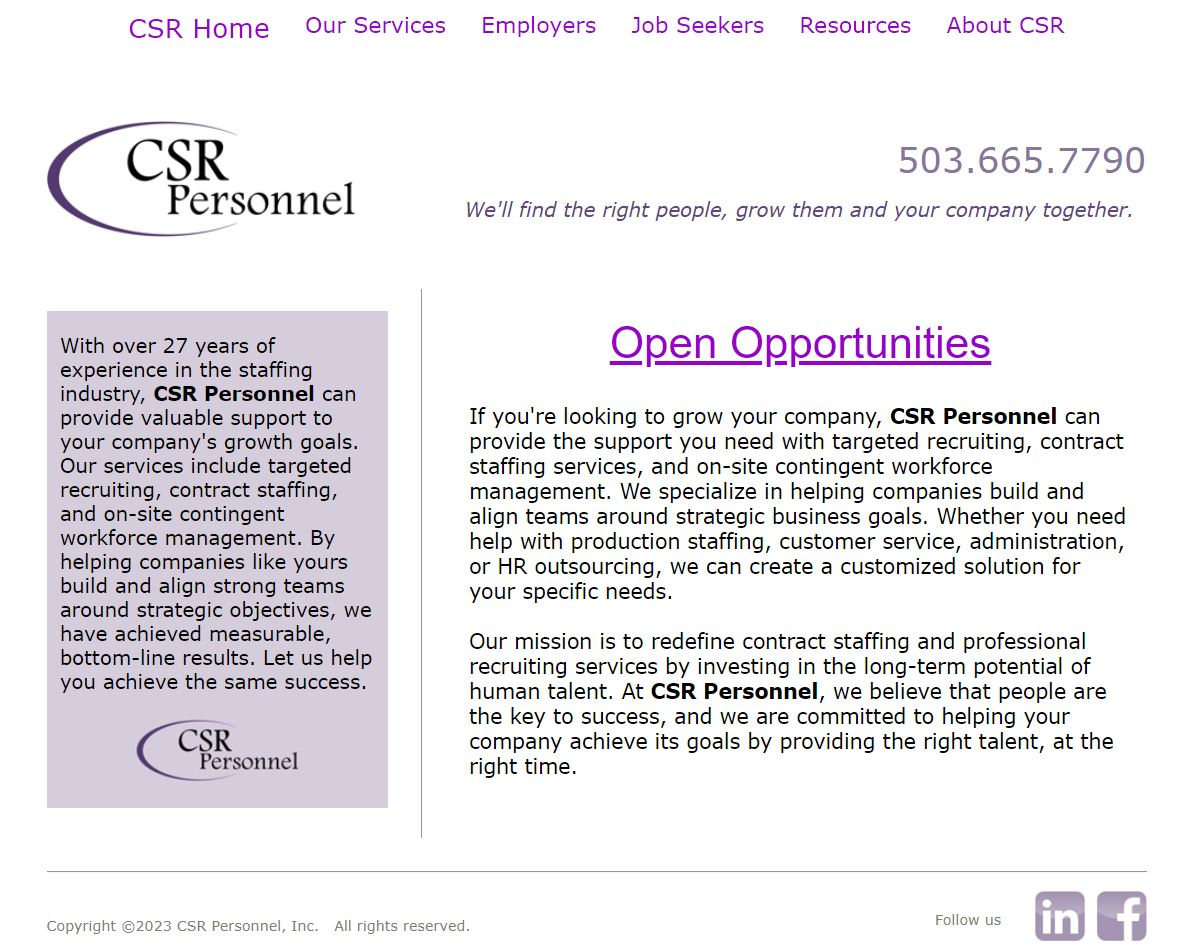
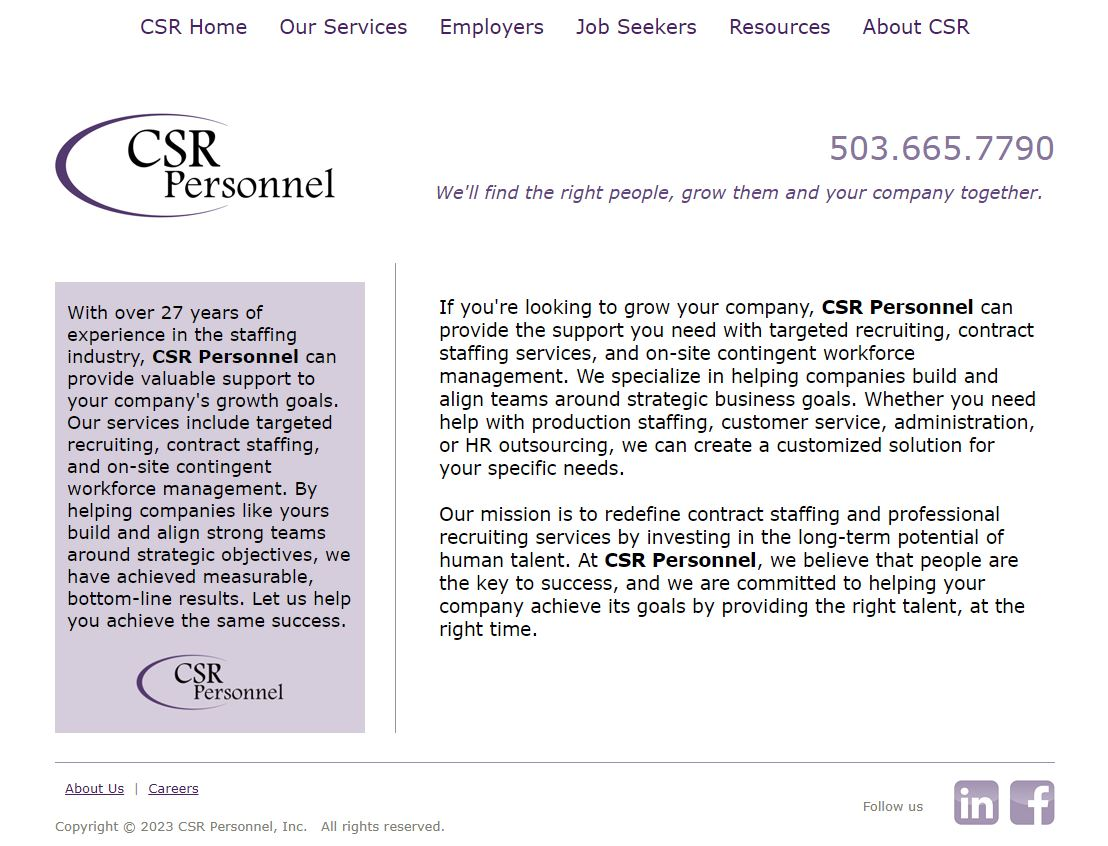
updating projects

diff --git a/src/components/pages/CSR-update.js b/src/components/pages/CSR-update.js
@@ -97,12 +97,14 @@ export default function CSR() {
       </p>
       <div className="CSR-container-title">
         <h2
-                  style={{
-                    backgroundImage: "linear-gradient(to right, #00C9FF , #92FE9D)",
-                    WebkitBackgroundClip: "text",
-                    WebkitTextFillColor: "transparent",
-                  }}
-                  >What the website looks like today:</h2>
+          style={{
+            backgroundImage: "linear-gradient(to right, #00C9FF , #92FE9D)",
+            WebkitBackgroundClip: "text",
+            WebkitTextFillColor: "transparent",
+          }}
+        >
+          What the website looks like today:
+        </h2>
       </div>
       <div className="HTTPS-container">
         <img src={HTTPS} alt="new address bar"></img>
@@ -121,6 +123,12 @@ export default function CSR() {
           <img src={newSeekers} alt="new job seekers page"></img>
         </div>
       </div>
+      <p className="CSR-container-blog">
+        After the new site went live, the customer let me know they wanted one
+        thing touched up - rather than the open opportunities to be on the main
+        page, they wanted the open opportunities in the footer on all pages.
+        Easy fix.
+      </p>
     </div>
   );
 }
